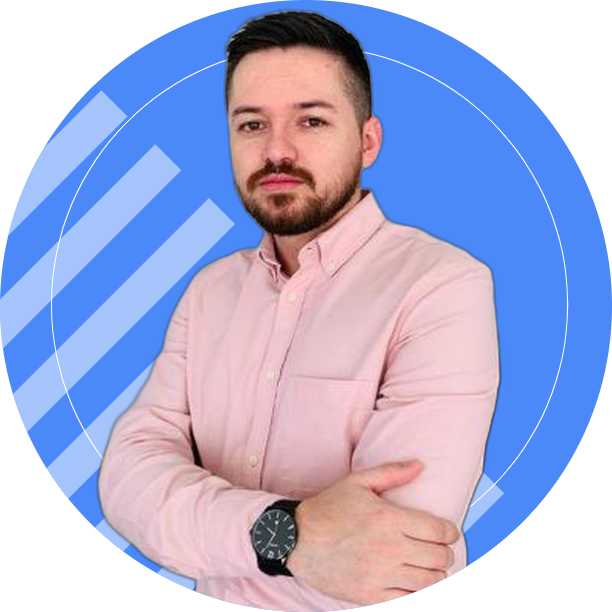
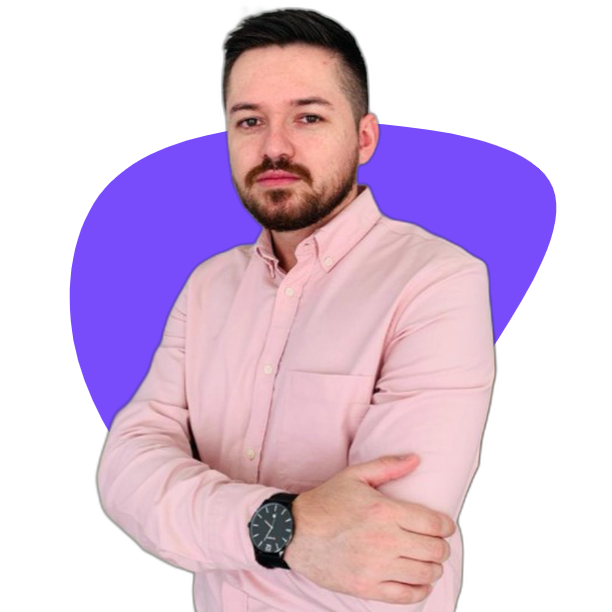
BKP arquivos

diff --git a/assets/css/style.min.css b/assets/css/style.min.css
@@ -1,1 +1,1 @@
-*{margin:0;padding:0;box-sizing:border-box}body,button,input,textarea{font-family:"Poppins",sans-serif}a{text-decoration:none}ul{list-style:none}img{width:100%}.container{max-width:1200px;margin:0 auto;display:flex;align-items:center;justify-content:space-between;padding:0 20px;gap:10px;height:100%}.division{text-align:center;margin-bottom:3rem}.division__title{display:inline-block;padding-bottom:1rem;line-height:1;font-size:2.8rem;position:relative;margin-bottom:.6rem}.division__title:before{content:attr(data-title);display:block;margin-bottom:.4rem;color:#784cfb;font-size:1.15rem;font-weight:500;text-transform:uppercase;letter-spacing:3px}.division__title:after{content:"";position:absolute;width:90px;height:5px;border-radius:3px;background:#784cfb;bottom:0;left:50%;transform:translateX(-50%)}header{z-index:99999;width:100%;position:fixed;top:0;left:0}header .nav-bar{width:100%;backdrop-filter:blur(20px)}header .nav-bar .nav-bar__container{height:6rem}header .nav-bar .nav-bar__container .logo__text{font-size:2rem;color:#333}header .nav-bar .nav-bar__container .menu{display:flex;gap:20px;flex-wrap:wrap}header .nav-bar .nav-bar__container .menu__link{color:#333;padding:10px;transition:.6s ease;font-weight:500;font-size:20px}header .nav-bar .nav-bar__container .menu__link:hover{color:#784cfb}header .nav-bar .nav-bar__container .menu .btn{background-color:#784cfb;color:#fff;border-radius:30px;padding:10px 30px;transition:.6s ease}header .nav-bar .nav-bar__container .menu .btn:hover{color:#fff;background:#333}.home{padding:100px 0 0 0;width:100%;height:100vh;margin-bottom:6rem}.home__container .conlumn-1{flex:1 0 65%;display:flex;flex-direction:column;align-items:flex-start;gap:10px}.home__container .conlumn-2{flex:1 0 35%;display:flex;justify-content:flex-end}.home__title{font-size:50px;color:#784cfb}.home__description{font-size:20px}.home__btn{background-color:#784cfb;color:#fff;border-radius:30px;padding:10px 35px;transition:.6s ease}.home__btn:hover{color:#fff;background:#333}.about{width:100%;margin-bottom:6rem}.about__container .column-1{flex:1 0 35%}.about__container .column-2{flex:1 0 65%}.about__container .column-2 .title-sm{margin-bottom:1rem}.about__container .column-2 .skills{margin:1.5rem 0 2.5rem}.about__container .column-2 .skills .skill{margin:1rem 0}.about__container .column-2 .skills .skill__title{color:#7a7a7a;font-weight:600;margin-bottom:.3rem}.about__container .column-2 .skills .skill__bar{width:50%;height:8px;border-radius:4px;background-color:#7a7a7a5f;position:relative;overflow:hidden}.about__container .column-2 .skills .skill__pregress{position:absolute;height:100%;width:40%;top:0;left:0;background-color:#784cfb;transition:1s}.about__container .column-2 .skills .skill .html{width:70%}.about__container .column-2 .skills .skill .css{width:70%}.about__container .column-2 .skills .skill .js{width:50%}.about__container .column-2 .skills .skill .tps{width:30%}.about__container .column-2 .skills .skill .sass{width:70%}.portfolio{position:relative;width:100%;margin-bottom:6rem;padding-top:3rem}.portfolio .background-bg{position:absolute;background-color:#784cfb;width:100%;min-height:300px;top:0;left:0}.portfolio .division__title{color:#fff}.portfolio .division__title::before{color:#fff}.portfolio .division__title::after{background-color:#fff}.portfolio .container .imgs{z-index:99998;display:grid;grid-template-columns:repeat(3, 1fr);gap:30px;width:100%}.portfolio .container .imgs .img{border-radius:10px}.contact{width:100%}.contact .container{flex-direction:column;min-height:300px;justify-content:center;gap:50px}.contact__container{width:100%;display:flex}.contact__card{display:flex;flex-direction:column;justify-content:center;gap:25px;flex:1 0 0}.contact__card i{font-size:2rem}.contact__card h2{color:#784cfb}.contact__card a{color:#000}/*# sourceMappingURL=style.min.css.map */
+*{margin:0;padding:0;box-sizing:border-box}body,button,input,textarea{font-family:"Poppins",sans-serif}a{text-decoration:none}ul{list-style:none}img{width:100%}.container{max-width:1200px;margin:0 auto;display:flex;align-items:center;justify-content:space-between;padding:0 20px;gap:10px;height:100%}.division{text-align:center;margin-bottom:3rem}.division__title{display:inline-block;padding-bottom:1rem;line-height:1;font-size:2.8rem;position:relative;margin-bottom:.6rem}.division__title:before{content:attr(data-title);display:block;margin-bottom:.4rem;color:#784cfb;font-size:1.15rem;font-weight:500;text-transform:uppercase;letter-spacing:3px}.division__title:after{content:"";position:absolute;width:90px;height:5px;border-radius:3px;background:#784cfb;bottom:0;left:50%;transform:translateX(-50%)}header{z-index:99999;width:100%;position:fixed;top:0;left:0}header .nav-bar{width:100%;backdrop-filter:blur(20px)}header .nav-bar .nav-bar__container{height:6rem}header .nav-bar .nav-bar__container .logo__text{font-size:2rem;color:#333}header .nav-bar .nav-bar__container .menu{display:flex;gap:20px;flex-wrap:wrap}header .nav-bar .nav-bar__container .menu__link{color:#333;padding:10px;transition:.6s ease;font-weight:500;font-size:20px}header .nav-bar .nav-bar__container .menu__link:hover{color:#784cfb}header .nav-bar .nav-bar__container .menu .btn{background-color:#784cfb;color:#fff;border-radius:30px;padding:10px 30px;transition:.6s ease}header .nav-bar .nav-bar__container .menu .btn:hover{color:#fff;background:#333}.home{padding:100px 0 0 0;width:100%;height:100vh;margin-bottom:6rem}.home__container .conlumn-1{flex:1 0 65%;display:flex;flex-direction:column;align-items:flex-start;gap:10px}.home__container .conlumn-2{flex:1 0 35%;display:flex;justify-content:flex-end}.home__title{font-size:50px;color:#784cfb}.home__description{font-size:20px}.home__btn{background-color:#784cfb;color:#fff;border-radius:30px;padding:10px 35px;transition:.6s ease}.home__btn:hover{color:#fff;background:#333}.home__img{box-shadow:2px 2px 2px 1px rgba(0,0,0,.2)}.about{width:100%;margin-bottom:6rem}.about__container .column-1{flex:1 0 35%}.about__container .column-2{flex:1 0 65%}.about__container .column-2 .title-sm{margin-bottom:1rem}.about__container .column-2 .skills{margin:1.5rem 0 2.5rem}.about__container .column-2 .skills .skill{margin:1rem 0}.about__container .column-2 .skills .skill__title{color:#7a7a7a;font-weight:600;margin-bottom:.3rem}.about__container .column-2 .skills .skill__bar{width:50%;height:8px;border-radius:4px;background-color:#7a7a7a5f;position:relative;overflow:hidden}.about__container .column-2 .skills .skill__pregress{position:absolute;height:100%;width:40%;top:0;left:0;background-color:#784cfb;transition:1s}.about__container .column-2 .skills .skill .html{width:70%}.about__container .column-2 .skills .skill .css{width:70%}.about__container .column-2 .skills .skill .js{width:50%}.about__container .column-2 .skills .skill .tps{width:30%}.about__container .column-2 .skills .skill .sass{width:70%}.portfolio{position:relative;width:100%;margin-bottom:6rem;padding-top:3rem}.portfolio .background-bg{position:absolute;background-color:#784cfb;width:100%;min-height:300px;top:0;left:0}.portfolio .division__title{color:#fff}.portfolio .division__title::before{color:#fff}.portfolio .division__title::after{background-color:#fff}.portfolio .container .imgs{z-index:99998;display:grid;grid-template-columns:repeat(3, 1fr);gap:30px;width:100%}.portfolio .container .imgs .img{border-radius:10px}.contact{width:100%}.contact .container{flex-direction:column;min-height:300px;justify-content:center;gap:50px}.contact__container{width:100%;display:flex}.contact__card{display:flex;flex-direction:column;justify-content:center;gap:25px;flex:1 0 0}.contact__card i{font-size:2rem}.contact__card h2{color:#784cfb}.contact__card a{color:#000}/*# sourceMappingURL=style.min.css.map */

diff --git a/index.html b/index.html
@@ -64,7 +64,7 @@
                     target="_blank" class="home__btn btn">Donwload CV</a>
             </div>
             <div class="conlumn-2">
-                <img src="./assets/img/person5.png" alt="Profile photo" class="home__img">
+                <img src="./assets/img/person.png" alt="Profile photo" class="home__img">
             </div>
         </div>
     </section>
@@ -79,7 +79,7 @@
 
         <div class="about__container container">
             <div class="column-1 image">
-                <img src="./assets/img/person5.png" alt="">
+                <img src="./assets/img/person.png" alt="Profile photo">
             </div>
             <div class="column-2">
                 <h3 class="title-sm">Hello, I'm</h3>

diff --git a/assets/sass/home.sass b/assets/sass/home.sass
@@ -33,6 +33,8 @@
         
     &__btn
         @include btn(10px, 35px)
+    &__img
+        box-shadow: 2px 2px 2px 1px rgba(0, 0, 0, 0.2)
 
     
 
